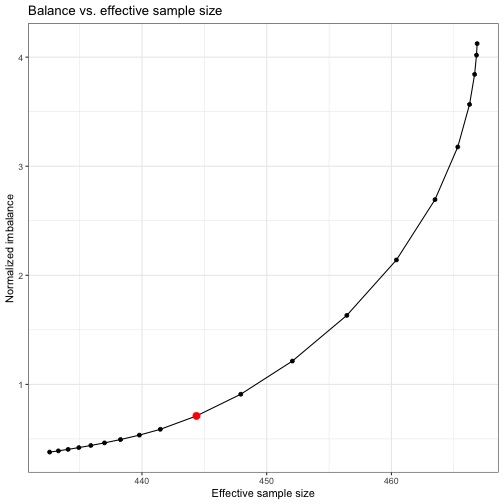
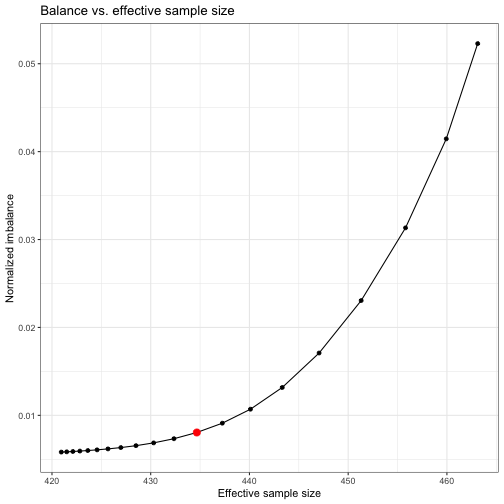
Updated vignette

diff --git a/vignettes/multical.md b/vignettes/multical.md
@@ -128,17 +128,17 @@ We can inspect marginal balance using `get_balance`:
 
 ```r
 get_balance(out, 1)
-#>    lambda term   difference
-#> 1       0  X11 5.989277e-05
-#> 2       0  X12 4.731923e-05
-#> 3       0  X13 2.252074e-05
-#> 4       0  X22 5.984805e-05
-#> 5       0  X23 9.856925e-06
-#> 6       0  X24 1.242060e-05
-#> 7       0  X32 6.077409e-05
-#> 8       0  X42 8.370378e-06
-#> 9       0  X43 9.729019e-06
-#> 10      0  X44 9.917186e-05
+#>    lambda term    difference
+#> 1       0  X11 -1.792114e-11
+#> 2       0  X12 -2.996280e-12
+#> 3       0  X13  2.091541e-11
+#> 4       0  X22  6.848733e-11
+#> 5       0  X23  1.248037e-10
+#> 6       0  X24  4.920461e-11
+#> 7       0  X32  1.282576e-10
+#> 8       0  X42  4.822429e-11
+#> 9       0  X43 -1.099640e-11
+#> 10      0  X44  8.450233e-11
 ```
 
 To estimate the population mean of an outcome, use the `estimate()` function
@@ -147,8 +147,8 @@ To estimate the population mean of an outcome, use the `estimate()` function
 
 ```r
 estimate(out, y, data = sample_ind)
-#>   estimate         se lambda     method
-#> 1 0.539679 0.02291384      0 linearized
+#>   estimate         se     method lambda
+#> 1 0.539679 0.02291384 linearized      0
 ```
 
 ### Higher-order calibration with a fixed lambda
@@ -161,18 +161,18 @@ out <- multical(~ X1 + X2 + X3 + X4, sample_ind, pop_ind, order = 4, lambda = 1)
 
 rbind(head(get_balance(out, 4)), tail(get_balance(out, 4)))
 #>     lambda            term    difference
-#> 1        1             X11 -1.709178e-07
-#> 2        1             X12  3.146617e-07
-#> 3        1             X13  1.247188e-07
-#> 4        1             X22 -4.474253e-07
-#> 5        1             X23  2.841223e-07
-#> 6        1             X24 -4.281146e-07
-#> 104      1 X12:X22:X32:X44 -5.394362e-01
-#> 105      1 X13:X22:X32:X44 -1.663485e+00
-#> 106      1 X12:X23:X32:X44  2.994214e+00
-#> 107      1 X13:X23:X32:X44  1.438081e+00
-#> 108      1 X12:X24:X32:X44 -3.621160e+00
-#> 109      1 X13:X24:X32:X44  1.282460e+00
+#> 1        1             X11  1.563083e-11
+#> 2        1             X12  1.950679e-11
+#> 3        1             X13 -3.514009e-11
+#> 4        1             X22 -5.916079e-11
+#> 5        1             X23 -1.039975e-10
+#> 6        1             X24  2.656954e-11
+#> 104      1 X12:X22:X32:X44 -2.355217e-04
+#> 105      1 X13:X22:X32:X44 -1.255785e-03
+#> 106      1 X12:X23:X32:X44  1.505367e-03
+#> 107      1 X13:X23:X32:X44  8.009261e-04
+#> 108      1 X12:X24:X32:X44 -1.809410e-03
+#> 109      1 X13:X24:X32:X44  5.229173e-04
 ```
 
 ### Selecting lambda automatically
@@ -190,7 +190,7 @@ plot(out)
 
 ![plot of chunk multical_indiv_lambda](figure/multical_indiv_lambda-1.png)
 
-By default, the `weights()` function will extract the weights corresponding to the value of `lambda` that achieves 90% of the total possible balance gain. You can override this by either (i) supplying a specific index to choose from (e.g. `weights(out, lambda_idx = 2)` returns weights corresponding to `out$lambda[2]`) or (ii) supplying a specific amount of balance gain to target (e.g. `weights(out, balance_gain_target = 0.95)` returns weights that give at least 95% of the total possible balance gain).
+By default, the `weights()` function will extract the weights corresponding to the value of `lambda` that achieves 95% of the total possible balance gain. You can override this by either (i) supplying a specific index to choose from (e.g. `weights(out, lambda_idx = 2)` returns weights corresponding to `out$lambda[2]`) or (ii) supplying a specific balance threshold (e.g. `weights(out, balance_threshold = 0.90)` returns weights that give at least 90% of the total possible balance gain).
 
 For large datasets with many covariates, start with a low `order` and increase as needed — the number of interaction terms grows quickly.
 
@@ -210,8 +210,8 @@ Estimation works the same way (using the default linearized estimator):
 
 ```r
 estimate(out, y, data = sample_ind)
-#>    estimate         se lambda     method
-#> 1 0.5313944 0.02378001      1 linearized
+#>    estimate         se     method lambda
+#> 1 0.5323389 0.02374401 linearized      1
 ```
 
 
@@ -238,35 +238,14 @@ out <- multical(~ X1 + X2 + X3 + X4, sample_ind, pop_ind, order = 4)
 
 ### Linearized estimator (default)
 
-The default. Fits an OLS model of `y` on the covariate design matrix and uses
-the residuals in the SE formula.
-The `order` argument sets the interaction order in the regression (defaults to 1).
+The default. Fits a first-order OLS model of `y` on the covariate design matrix
+and uses the residuals in the sandwich SE formula.
 
 
 ```r
 estimate(out, y, data = sample_ind)
-#>   estimate         se  lambda     method
-#> 1 0.533156 0.02352398 4.79876 linearized
-```
-
-You can set the interaction order explicitly:
-
-
-```r
-estimate(out, y, data = sample_ind, method = "linearized", order = 2)
-#>   estimate         se  lambda     method
-#> 1 0.533156 0.02280711 4.79876 linearized
-```
-
-Pass `use_ridge = TRUE` to fit the outcome model with ridge regression instead
-(penalty chosen by 10-fold cross-validation via `glmnet`):
-
-
-```r
-estimate(out, y, data = sample_ind, method = "linearized", order = 2,
-         use_ridge = TRUE)
-#>   estimate         se  lambda     method
-#> 1 0.533156 0.02365524 4.79876 linearized
+#>   estimate         se     method    lambda
+#> 1 0.531562 0.02377138 linearized 0.7247596
 ```
 
 ### Hajek estimator
@@ -277,21 +256,21 @@ without any regression adjustment.
 
 ```r
 estimate(out, y, data = sample_ind, method = "hajek")
-#>   estimate         se  lambda method
-#> 1 0.533156 0.02367092 4.79876  hajek
+#>   estimate         se method    lambda
+#> 1 0.531562 0.02394727  hajek 0.7247596
 ```
 
 ### GREG estimator
 
-The GREG estimator uses regression predictions on the target population to form
-the point estimate. The `order` and `use_ridge` arguments work the same way as for
-`"linearized"`.
+The GREG estimator uses cross-fitted ridge regression predictions on the target
+population to form the point estimate. The interaction order is inherited from
+the `multical` object.
 
 
 ```r
-estimate(out, y, data = sample_ind, method = "greg", order = 2)
-#>   estimate         se  lambda method
-#> 1 0.534722 0.02280711 4.79876   greg
+estimate(out, y, data = sample_ind, method = "greg")
+#>    estimate         se method    lambda
+#> 1 0.5328709 0.02397813   greg 0.7247596
 ```
 
 ### DRP estimator
@@ -303,14 +282,14 @@ with cross-fitted gradient-boosted trees (xgboost). Additional arguments
 
 ```r
 estimate(out, y, data = sample_ind, method = "drp", nrounds = 200)
-#>    estimate         se  lambda method
-#> 1 0.5283282 0.02611627 4.79876    drp
+#>    estimate         se method    lambda
+#> 1 0.5251385 0.02656333    drp 0.7247596
 ```
 
 ### Selecting lambda
 
 By default `estimate()` uses the auto-selected default lambda (the one that
-achieves at least 90% of the possible balance gain). You can override this with
+achieves at least 95% of the possible balance gain). You can override this with
 `lambda_idx` (an integer index into `out$lambda`) or `balance_threshold` (a
 value in (0, 1) that re-runs lambda selection):
 
@@ -318,11 +297,35 @@ value in (0, 1) that re-runs lambda selection):
 ```r
 # use the weights at index 5 in the lambda grid
 estimate(out, y, data = sample_ind, lambda_idx = 5)
-#>    estimate         se   lambda     method
-#> 1 0.5375823 0.02296298 182.0021 linearized
+#>    estimate         se     method   lambda
+#> 1 0.5335186 0.02345171 linearized 8.181361
 
 # re-select lambda targeting 95% balance gain
 estimate(out, y, data = sample_ind, balance_threshold = 0.95)
-#>    estimate        se   lambda     method
-#> 1 0.5324562 0.0236437 1.428279 linearized
+#>   estimate         se     method    lambda
+#> 1 0.531562 0.02377138 linearized 0.7247596
 ```
+
+### Subsetting respondents
+
+The `subset` argument restricts estimation to a subset of respondents without
+refitting the calibration weights. Pass either a logical vector (one entry per
+respondent, `TRUE` to retain) or an integer index vector.
+
+
+```r
+# Estimate on respondents where a covariate equals a specific value
+mask <- sample_ind$X1 == levels(sample_ind$X1)[1]
+estimate(out, y, data = sample_ind, subset = mask)
+#>    estimate         se     method    lambda
+#> 1 0.5358512 0.03725474 linearized 0.7247596
+
+# Integer index version
+estimate(out, y, data = sample_ind, subset = which(mask))
+#>    estimate         se     method    lambda
+#> 1 0.5358512 0.03725474 linearized 0.7247596
+```
+
+If any retained respondent has a missing outcome (`NA`), those observations are
+automatically excluded and a warning is issued. Respondents excluded by `subset`
+are never checked for `NA`.
